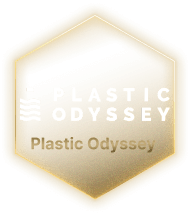
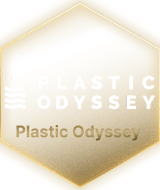
on site vote

diff --git a/app/vote/[id]/[code]/projects.tsx b/app/vote/[id]/[code]/projects.tsx
@@ -39,7 +39,7 @@ export function Projects({
             key={rowIndex}
             className="flex justify-center items-center gap-6"
             style={{
-              marginTop: rowIndex === 0 ? "0" : "-3rem", // 让每一行都向上偏移，创造重叠效果
+              marginTop: rowIndex === 0 ? "0" : "-2.5rem", // 让每一行都向上偏移，创造重叠效果
             }}
           >
             {row.map((item) => (
@@ -77,7 +77,7 @@ export function ProjectItem({
     <Drawer>
       <DrawerTrigger asChild>
         <div className="cursor-pointer">
-          <Image src={item.activeLogo} alt={item.name} />
+          <Image className="w-28" src={item.activeLogo} alt={item.name} />
         </div>
       </DrawerTrigger>
       <DrawerContent className="pb-6 bg-oscarBlack border-none">
